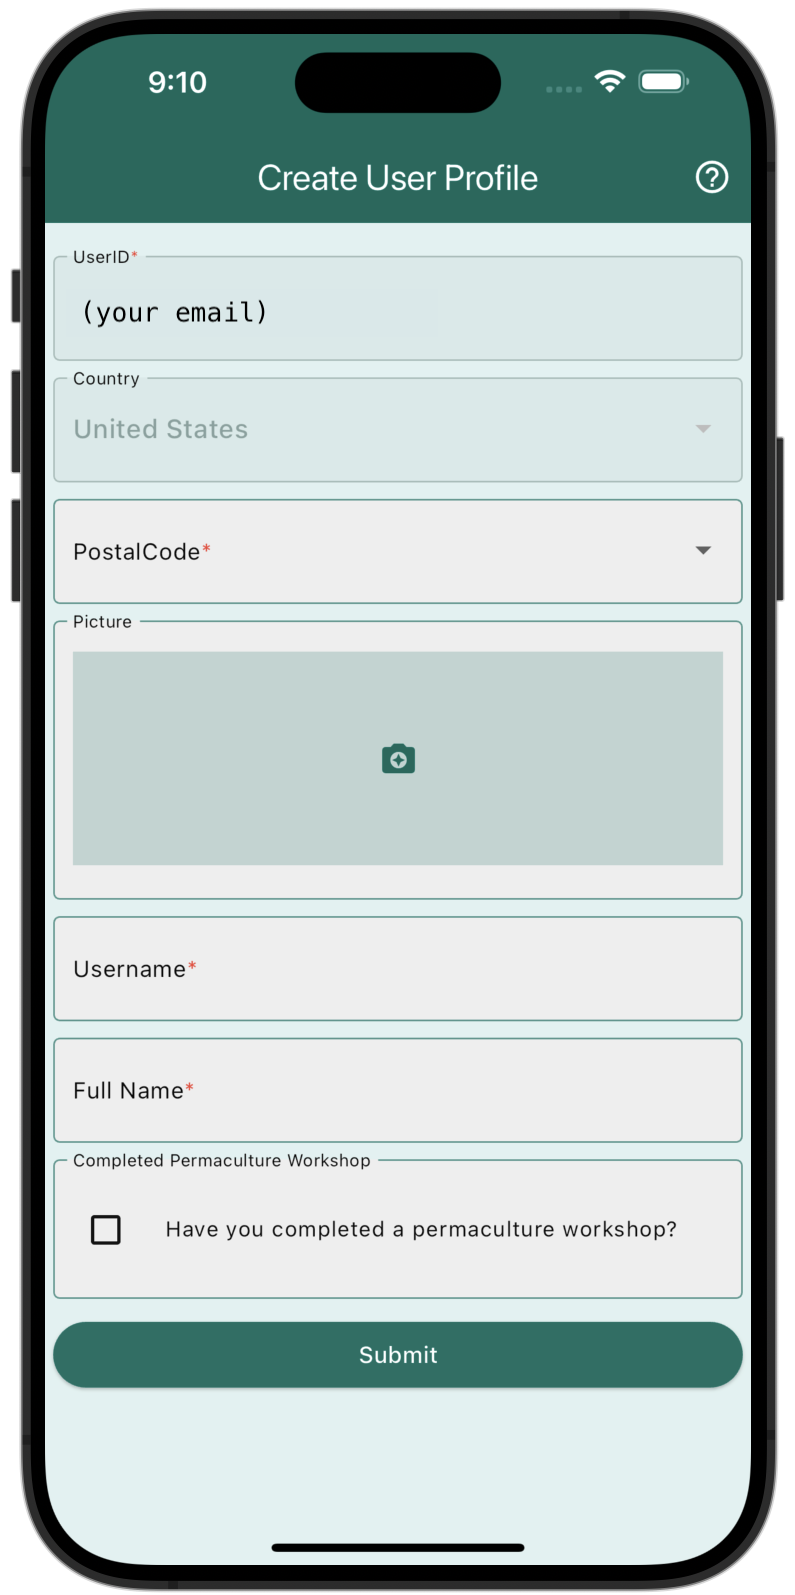
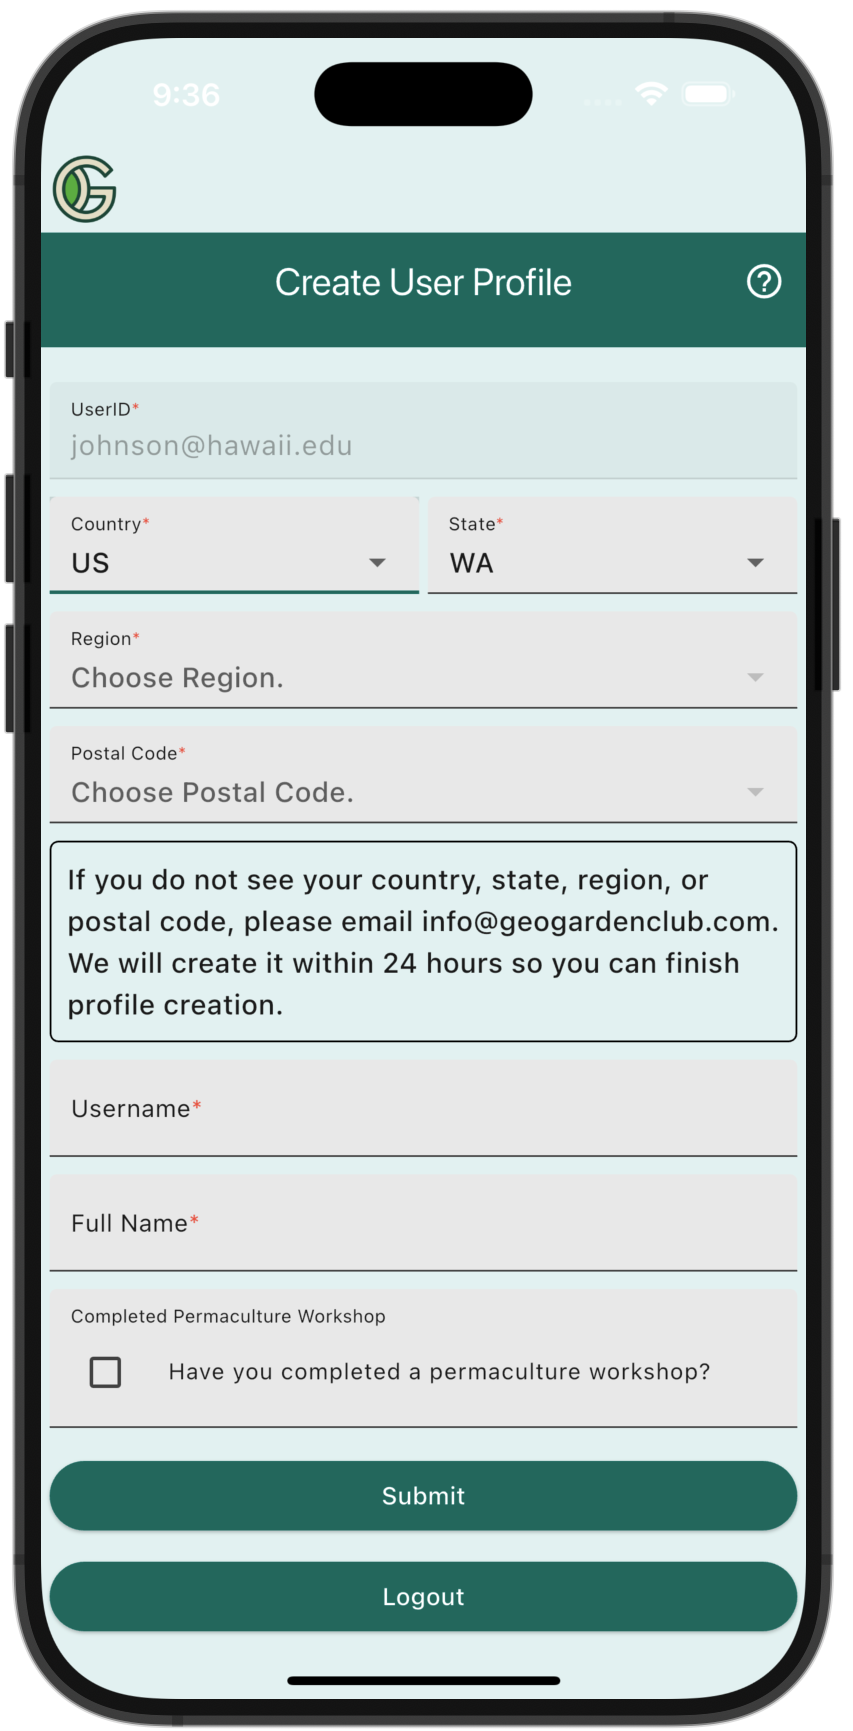
checkpoint

diff --git a/sidebars.js b/sidebars.js
@@ -35,19 +35,17 @@ const sidebars = {
         'user-guide/overview',
         'user-guide/downloading',
         'user-guide/registration',
-        'user-guide/define-a-garden',
-        'user-guide/adding-plantings',
-        'user-guide/explore-a-garden',
-        'user-guide/explore-a-chapter',
-        'user-guide/adding-vendors-crops-varieties',
-        'user-guide/scenarios',
-        'user-guide/observations',
-        'user-guide/geobot',
-        'user-guide/badges',
-        'user-guide/outcomes',
+        'user-guide/user-profile',
+        'user-guide/subscription',
+        'user-guide/gardens',
+        'user-guide/plantings',
         'user-guide/tasks',
-        'user-guide/seeds',
+        'user-guide/observations',
+        'user-guide/outcomes',
         'user-guide/chat-rooms',
+        'user-guide/crops-varieties',
+        'user-guide/scenarios',
+        'user-guide/badges',
         'user-guide/guided-tour',
         'user-guide/privacy',
         ]

diff --git a/docs/user-guide/user-profile.md b/docs/user-guide/user-profile.md
@@ -1,0 +1,57 @@
+---
+sidebar_position: 1
+---
+
+# User Profile
+
+:::tip How to specify your chapter, username, and other information. 
+:::
+
+The User Profile screen allows you to provide important information regarding your membership in GeoGardenClub.
+
+## Create User Profile
+
+When you first sign in to GeoGardenClub, you will be taken to the Create User Profile screen where you can provide required information:
+
+<img width="300" src="/img/user-guide/create-user-profile.png"/>
+
+**UserID:** This is a read-only field that displays the email address you used when you registered in the previous screen.
+
+**Country:** A pull-down menu showing the countries that have GGC Chapters. Select your country.
+
+**State:** A pull-down menu showing the States (or Provinces) with Chapters in the selected country. Select your state.
+
+**Region:** A pull-down menu showing regions (typically counties) within the selected country and state. Select your region.
+
+**Postal Code:** A pull-down menu showing the postal codes defined for the selected country, state, and region. Select your postal code.
+
+:::warning Can't find your area?
+If you can't find your country, state, region, and postal code in the pull-down menus, then please email info@geogardenclub.com.  We'll fix it within a day so you can proceed with profile creation.
+:::
+
+**Username:** A text field allowing you to define a username. GeoGardenClub does not reveal your name or email address to other users. Instead, you are identified by your username. All usernames must start with a "@". For example, @gardenerbob.  Note that usernames must be unique, so if the username is taken, you will be asked to choose another one after you click "Submit".
+
+**Full Name:** Enter your full name.  This is for administrative purposes and will not be shared with other users.
+
+**Completed Permaculture Workshop:** If you have formal education in permaculture, select this box.  Completion of a permaculture workshop is required for those wanting the Permaculture Pro badge.  For more on badges, see the [Badges](/docs/user-guide/badges) section.
+
+Tap the **Submit** button to create your user profile.
+
+## Update User Profile
+
+After your profile has been created, you can make changes to certain parts of it by selecting the Drawer, selecting Settings, and then selecting Update User Profile to be taken to the Update User Profile screen:
+
+
+<img width="300" src="/img/user-guide/update-user-profile.png"/>
+
+You cannot change your userID or your Chapter. (If you want to be moved to a different Chapter, please email info@geogardenclub.com.)
+
+**Picture:** You can (optionally) define a profile picture by clicking on the Camera icon.  You can select a picture from your photos collection. Upon submission of this form, you will be prompted to crop it to a square image.
+
+**Username:** You can change your username anytime.  It must start with a "@" and be unique.
+
+**Full Name:** If you need to correct the spelling of your full name, you can do it here.
+
+**Permaculture Workshop:** If you have completed formal education in permaculture, select this box.  Completion of a permaculture workshop is required for those wanting the Permaculture Pro badge.  For more on badges, see the [Badges](/docs/user-guide/badges) section.
+
+Tap the **Submit** button to update your user profile.

diff --git a/docs/user-guide/registration.md b/docs/user-guide/registration.md
@@ -4,30 +4,19 @@ sidebar_position: 1
 
 # Registration
 
-:::tip How to register and create your user profile.
+:::tip How to create an account with GeoGardenClub.
 :::
 
-<img style={{float: "left", padding: "20px"}} width="300" src="/img/user-guide/register-screen.png"/>
+## Registration
 
-After downloading the app, open it to see the login screen. Tap **Register** to create a new account.
+When the app first comes up, you will see the Sign In screen.  Since you have not registered yet, you cannot sign in. Instead, click on "Register" link to go to the 
+Registration screen:
 
-In the **Register Screen,** enter your email address, password, and password confirmation. Your email address will be your UserID.  Tap **Register** to create your account.
+<img width="300" src="/img/user-guide/register-screen.png"/>
 
-A verification email will be sent to your email address.  Please check your email and click the link to verify your account.  Once clicked, you will be taken to the **Create User Profile Screen**.
 
-<div style={{clear:"both"}}></div>
+In the **Register Screen,** enter your email address, password, and password confirmation. (Your email address will be your UserID.)  Tap **Register** to create your account.
 
-## Create User Profile Screen
+A verification email will be sent to your email address.  Please check your email and click the link to verify your account.  
 
-<img style={{float: "left", padding: "20px"}} width="300" src="/img/user-guide/create-user-profile.png"/>
-
- - **UserID:** This is a read-only field that displays the email address you used when you registered in the previous screen.
- - **Country:** During the beta test, all GGC chapters are restricted to the United States, so this is a read-only field that displays "United States".  
- - **Postal Code:** Select your postal (zip) code from the drop-down list.
- - **Picture:** Tap the camera icon to take a picture of your garden or tap the gallery icon to select a picture from your device's gallery.
- - **Username:** Choose a username. This will be displayed to other users.  For example: @gardenerbob.  Note that usernames must be unique, so if that name is taken, you will be asked to choose another one after you click "Submit".
- - **Full Name:** Enter your full name.  This is for administrative purposes and will not be shared with other users.
- - **Completed Permaculture Workshop:** If you have formal education in permaculture, select this box.  Completion of a permaculture workshop is required for those wanting the Permaculture Pro badge.  For more on badges, see the [Badges](/docs/user-guide/badges) section.
- - Tap the **Submit** button to create your user profile.
-
-<div style={{clear:"both"}}></div>
+Once you have registered, you will be able to sign in. The first time you sign in, you will be taken to the **Create User Profile Screen**.

diff --git a/docs/user-guide/subscription.md b/docs/user-guide/subscription.md
@@ -1,0 +1,18 @@
+---
+sidebar_position: 1
+---
+
+# Subscription
+
+:::tip You must subscribe to become a member of GeoGardenClub.
+:::
+
+Before you can start to use the services provided by GeoGardenClub, you must subscribe.  The first time you sign in to GeoGardenClub, after completing your profile, you will be taken to this screen so that you can accept the terms of subscription:
+
+<img width="300" src="/img/user-guide/subscription.png"/>
+
+:::info GGC membership is a responsibility and a privilege
+GeoGardenClub is supported entirely by its members, and we rely entirely on subscription revenue to support the services we offer. We are an independent company, we are not funded by seed companies or other companies in the gardening industry, we do not show advertisements in the app, and we will never sell your data. 
+:::
+
+Once you have accepted the subscription, you will be taken to your Home page where you can define your first garden!

diff --git a/docs/user-guide/overview.md b/docs/user-guide/overview.md
@@ -7,5 +7,10 @@ sidebar_position: 1
 Welcome to the User Guide for the GeoGardenClub app. 
 
 :::info
-The GGC app is currently in closed beta test. If you are a gardener in the Bellingham, Washington area, and are interested in participating in our beta test program, please contact geogardenclub@gmail.com.
+The GGC app is currently available on both iOS and Android platforms. 
+
+iOS users can download the app from the [App Store](https://apps.apple.com/us/app/geogardenclub/id6478464910).
+
+Android users can download the app by joining our Android beta test program. Please
+contact info@geogardenclub.com for details on how to join it.
 :::
